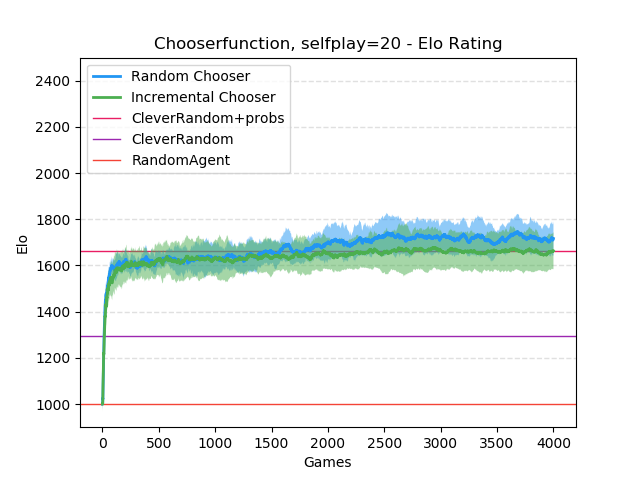
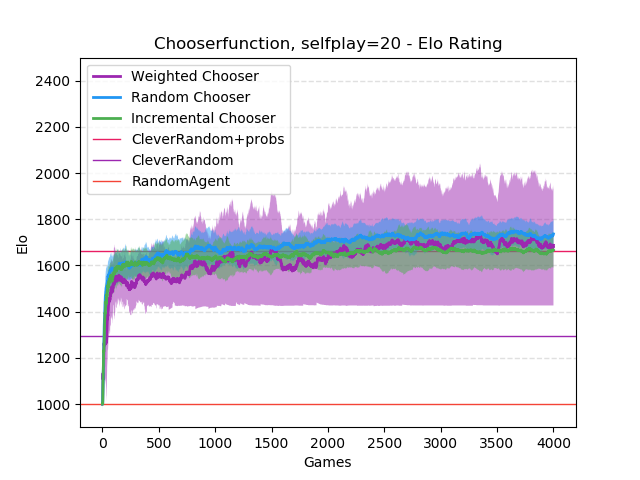
tests

Changed region(s): [[0.125, 0.3125, 0.875, 0.8125], [0.1562, 0.125, 0.4375, 0.3125]]

diff --git a/generateExperiments.py b/generateExperiments.py
@@ -16,29 +16,29 @@ def genExperiments(name, agent, gameLength, adAgent, explore, doTrain, impala, c
         file.write(f'bsub -o "outputs/{name}/{agent}{str(i)}{name}.md" -J "{agent}{str(i)}{name}" -P "{agent}{str(i)}{name} {gameLength} {adAgent} {agent} {int(explore)} {int(doTrain)} {int(impala)} {int(calcprobs)} {int(minmax)} {name}{" -lossf " + str(lossf) if lossf is not None else ""}{" -K " + str(K) if K is not None else ""}{" -dropout " + str(dropout) if dropout is not None else ""}{" -alpha " + str(alpha) if alpha is not None else ""}{" -discount " + str(discount) if discount is not None else ""}{" -lambda " + str(lambd) if lambd is not None else ""}{" -lr " + str(lr) if lr is not None else ""}{" -chooserfunction " + str(chooserfunction) if chooserfunction is not None else ""}{" -TopNvalues " + str(TopNvalues) if TopNvalues is not None else ""}{" -cutOffdepth " + str(cutOffdepth) if cutOffdepth is not None else ""}{" -ValueCutOff " + str(ValueCutOff) if ValueCutOff is not None else ""}{" -ValueDiffCutOff " + str(ValueDiffCutOff) if ValueDiffCutOff is not None else ""}{" -ProbabilityCutOff " + str(ProbabilityCutOff) if ProbabilityCutOff is not None else ""}{" -historyLength " + str(historyLength) if historyLength is not None else ""}{" -startAfterNgames " + str(startAfterNgames) if startAfterNgames is not None else ""}{" -batchSize " + str(batchSize) if batchSize is not None else ""}{" -sampleLenth " + str(sampleLenth) if sampleLenth is not None else ""}{" -network " + str(network) if network is not None else ""}{" -winNumber " + str(winNumber) if winNumber is not None else ""}{" -maxRolls " + str(maxRolls) if maxRolls is not None else ""}{" -Eatreward " + str(Eatreward) if Eatreward is not None else ""}{" -basereward " + str(basereward) if basereward is not None else ""}{" -stepreward " + str(stepreward) if stepreward is not None else ""}" < submit.sh\n')
 
 
-# genExperiments('NN-Selfplay-20-random-lr=0.0002', 'NNAgent', 4000, 20, False, True, False, False, False, lossf='MSE', discount=0.95, lambd=0, lr=0.0002, chooserfunction='randomChooser')
-# genExperiments('NN-Selfplay-50-random-lr=0.0002', 'NNAgent', 4000, 50, False, True, False, False, False, lossf='MSE', discount=0.95, lambd=0, lr=0.0002, chooserfunction='randomChooser')
-# genExperiments('NN-Selfplay-100-random-lr=0.0002', 'NNAgent', 4000, 100, False, True, False, False, False, lossf='MSE', discount=0.95, lambd=0, lr=0.0002, chooserfunction='randomChooser')
+genExperiments('NN-Selfplay-20-random-lr=0.0002-K=2000', 'NNAgent', 4000, 20, True, True, False, False, False, lossf='MSE', discount=0.95, lambd=0, lr=0.0002, chooserfunction='randomChooser', K=2000)
+genExperiments('NN-Selfplay-50-random-lr=0.0002-K=2000', 'NNAgent', 4000, 50, True, True, False, False, False, lossf='MSE', discount=0.95, lambd=0, lr=0.0002, chooserfunction='randomChooser', K=2000)
+genExperiments('NN-Selfplay-100-random-lr=0.0002-K=2000', 'NNAgent', 4000, 100, True, True, False, False, False, lossf='MSE', discount=0.95, lambd=0, lr=0.0002, chooserfunction='randomChooser', K=2000)
 
-# genExperiments('NN-Selfplay-20-incremental-lr=0.0002', 'NNAgent', 4000, 20, False, True, False, False, False, lossf='MSE', discount=0.95, lambd=0, lr=0.0002, chooserfunction='incrementalChooser')
-# genExperiments('NN-Selfplay-50-incremental-lr=0.0002', 'NNAgent', 4000, 50, False, True, False, False, False, lossf='MSE', discount=0.95, lambd=0, lr=0.0002, chooserfunction='incrementalChooser')
-# genExperiments('NN-Selfplay-100-incremental-lr=0.0002', 'NNAgent', 4000, 100, False, True, False, False, False, lossf='MSE', discount=0.95, lambd=0, lr=0.0002, chooserfunction='incrementalChooser')
+genExperiments('NN-Selfplay-20-incremental-lr=0.0002-K=2000', 'NNAgent', 4000, 20, True, True, False, False, False, lossf='MSE', discount=0.95, lambd=0, lr=0.0002, chooserfunction='incrementalChooser', K=2000)
+genExperiments('NN-Selfplay-50-incremental-lr=0.0002-K=2000', 'NNAgent', 4000, 50, True, True, False, False, False, lossf='MSE', discount=0.95, lambd=0, lr=0.0002, chooserfunction='incrementalChooser', K=2000)
+genExperiments('NN-Selfplay-100-incremental-lr=0.0002-K=2000', 'NNAgent', 4000, 100, True, True, False, False, False, lossf='MSE', discount=0.95, lambd=0, lr=0.0002, chooserfunction='incrementalChooser', K=2000)
 
-# genExperiments('NN-Selfplay-20-weighted-lr=0.0002', 'NNAgent', 4000, 20, False, True, False, False, False, lossf='MSE', discount=0.95, lambd=0, lr=0.0002, chooserfunction='weightedChooser')
-# genExperiments('NN-Selfplay-50-weighted-lr=0.0002', 'NNAgent', 4000, 50, False, True, False, False, False, lossf='MSE', discount=0.95, lambd=0, lr=0.0002, chooserfunction='weightedChooser')
-# genExperiments('NN-Selfplay-100-weighted-lr=0.0002', 'NNAgent', 4000, 100, False, True, False, False, False, lossf='MSE', discount=0.95, lambd=0, lr=0.0002, chooserfunction='weightedChooser')
+genExperiments('NN-Selfplay-20-weighted-lr=0.0002-K=2000', 'NNAgent', 4000, 20, True, True, False, False, False, lossf='MSE', discount=0.95, lambd=0, lr=0.0002, chooserfunction='weightedChooser', K=2000)
+genExperiments('NN-Selfplay-50-weighted-lr=0.0002-K=2000', 'NNAgent', 4000, 50, True, True, False, False, False, lossf='MSE', discount=0.95, lambd=0, lr=0.0002, chooserfunction='weightedChooser', K=2000)
+genExperiments('NN-Selfplay-100-weighted-lr=0.0002-K=2000', 'NNAgent', 4000, 100, True, True, False, False, False, lossf='MSE', discount=0.95, lambd=0, lr=0.0002, chooserfunction='weightedChooser', K=2000)
 
-genExperiments('NN-Selfplay-20-random-lr=0.00005', 'NNAgent', 4000, 20, False, True, False, False, False, lossf='MSE', discount=0.95, lambd=0, lr=0.00005, chooserfunction='randomChooser')
-genExperiments('NN-Selfplay-50-random-lr=0.00005', 'NNAgent', 4000, 50, False, True, False, False, False, lossf='MSE', discount=0.95, lambd=0, lr=0.00005, chooserfunction='randomChooser')
-genExperiments('NN-Selfplay-100-random-lr=0.00005', 'NNAgent', 4000, 100, False, True, False, False, False, lossf='MSE', discount=0.95, lambd=0, lr=0.00005, chooserfunction='randomChooser')
+# genExperiments('NN-Selfplay-20-random-lr=0.00005', 'NNAgent', 4000, 20, False, True, False, False, False, lossf='MSE', discount=0.95, lambd=0, lr=0.00005, chooserfunction='randomChooser')
+# genExperiments('NN-Selfplay-50-random-lr=0.00005', 'NNAgent', 4000, 50, False, True, False, False, False, lossf='MSE', discount=0.95, lambd=0, lr=0.00005, chooserfunction='randomChooser')
+# genExperiments('NN-Selfplay-100-random-lr=0.00005', 'NNAgent', 4000, 100, False, True, False, False, False, lossf='MSE', discount=0.95, lambd=0, lr=0.00005, chooserfunction='randomChooser')
 
-genExperiments('NN-Selfplay-20-incremental-lr=0.00005', 'NNAgent', 4000, 20, False, True, False, False, False, lossf='MSE', discount=0.95, lambd=0, lr=0.00005, chooserfunction='incrementalChooser')
-genExperiments('NN-Selfplay-50-incremental-lr=0.00005', 'NNAgent', 4000, 50, False, True, False, False, False, lossf='MSE', discount=0.95, lambd=0, lr=0.00005, chooserfunction='incrementalChooser')
-genExperiments('NN-Selfplay-100-incremental-lr=0.00005', 'NNAgent', 4000, 100, False, True, False, False, False, lossf='MSE', discount=0.95, lambd=0, lr=0.00005, chooserfunction='incrementalChooser')
+# genExperiments('NN-Selfplay-20-incremental-lr=0.00005', 'NNAgent', 4000, 20, False, True, False, False, False, lossf='MSE', discount=0.95, lambd=0, lr=0.00005, chooserfunction='incrementalChooser')
+# genExperiments('NN-Selfplay-50-incremental-lr=0.00005', 'NNAgent', 4000, 50, False, True, False, False, False, lossf='MSE', discount=0.95, lambd=0, lr=0.00005, chooserfunction='incrementalChooser')
+# genExperiments('NN-Selfplay-100-incremental-lr=0.00005', 'NNAgent', 4000, 100, False, True, False, False, False, lossf='MSE', discount=0.95, lambd=0, lr=0.00005, chooserfunction='incrementalChooser')
 
-genExperiments('NN-Selfplay-20-weighted-lr=0.00005', 'NNAgent', 4000, 20, False, True, False, False, False, lossf='MSE', discount=0.95, lambd=0, lr=0.00005, chooserfunction='weightedChooser')
-genExperiments('NN-Selfplay-50-weighted-lr=0.00005', 'NNAgent', 4000, 50, False, True, False, False, False, lossf='MSE', discount=0.95, lambd=0, lr=0.00005, chooserfunction='weightedChooser')
-genExperiments('NN-Selfplay-100-weighted-lr=0.00005', 'NNAgent', 4000, 100, False, True, False, False, False, lossf='MSE', discount=0.95, lambd=0, lr=0.00005, chooserfunction='weightedChooser')
+# genExperiments('NN-Selfplay-20-weighted-lr=0.00005', 'NNAgent', 4000, 20, False, True, False, False, False, lossf='MSE', discount=0.95, lambd=0, lr=0.00005, chooserfunction='weightedChooser')
+# genExperiments('NN-Selfplay-50-weighted-lr=0.00005', 'NNAgent', 4000, 50, False, True, False, False, False, lossf='MSE', discount=0.95, lambd=0, lr=0.00005, chooserfunction='weightedChooser')
+# genExperiments('NN-Selfplay-100-weighted-lr=0.00005', 'NNAgent', 4000, 100, False, True, False, False, False, lossf='MSE', discount=0.95, lambd=0, lr=0.00005, chooserfunction='weightedChooser')
 
 # genExperiments('LA-discount-0.5-NoTrain-alpha-0.000001', 'LinearAprox', 4000, 5000, False, True, False, False, False, alpha=0.000001, discount=0.5, lambd=0)
 # genExperiments('LA-discount-0.75-NoTrain-alpha-0.000001', 'LinearAprox', 4000, 5000, False, True, False, False, False, alpha=0.000001, discount=0.75, lambd=0)
